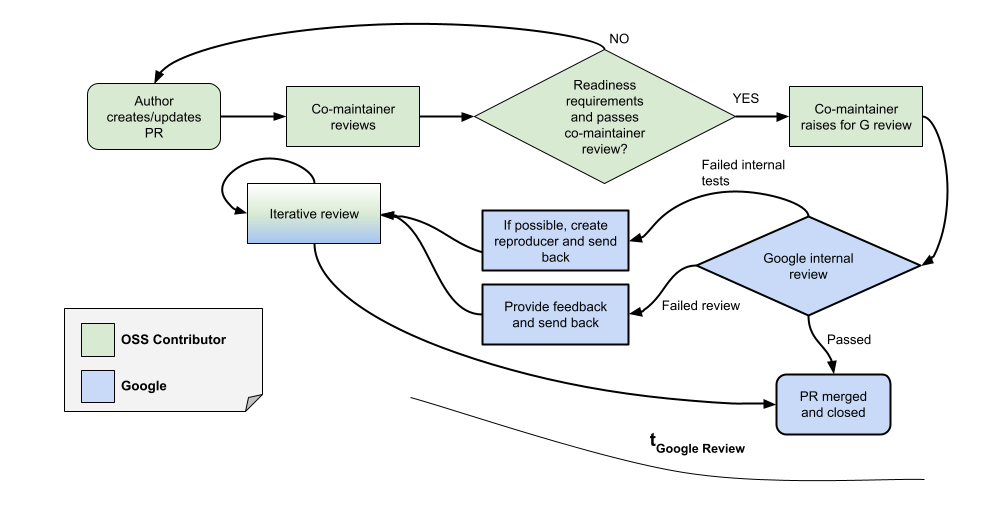
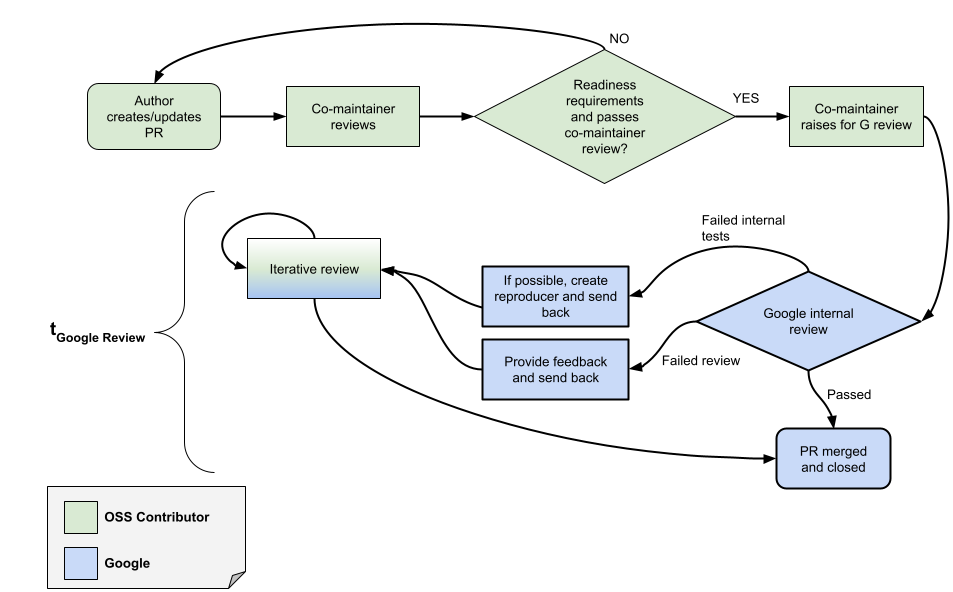
[XLA] Simplify co-maintainer SLO
PiperOrigin-RevId: 963339223

diff --git a/docs/contributing.md b/docs/contributing.md
@@ -310,12 +310,10 @@ At this moment the list of co-maintainers from our partner teams is:
 
 ![img](./images/comaintainers.png)
 
-| Percentile | Target for **t<sub>Google Review</sub>** |
+| Percentile | Target for **t<sub>Google Review</sub>** (co-maintainer approval to PR merged) |
 | --- | --- |
-| 50 percentile | 3 business days |
-| 80 percentile | 4 business days |
-| 90 percentile | 5 business days |
-| 95 percentile | 6 business days |
+| 50 percentile of PRs | 3 business days |
+| 80 percentile of PRs | 5 business days |
 
 When Google reviews the PR, it may fail due to an internal test. In this case,
 Google will try to generate a reproducer and share it with the partner. In other
